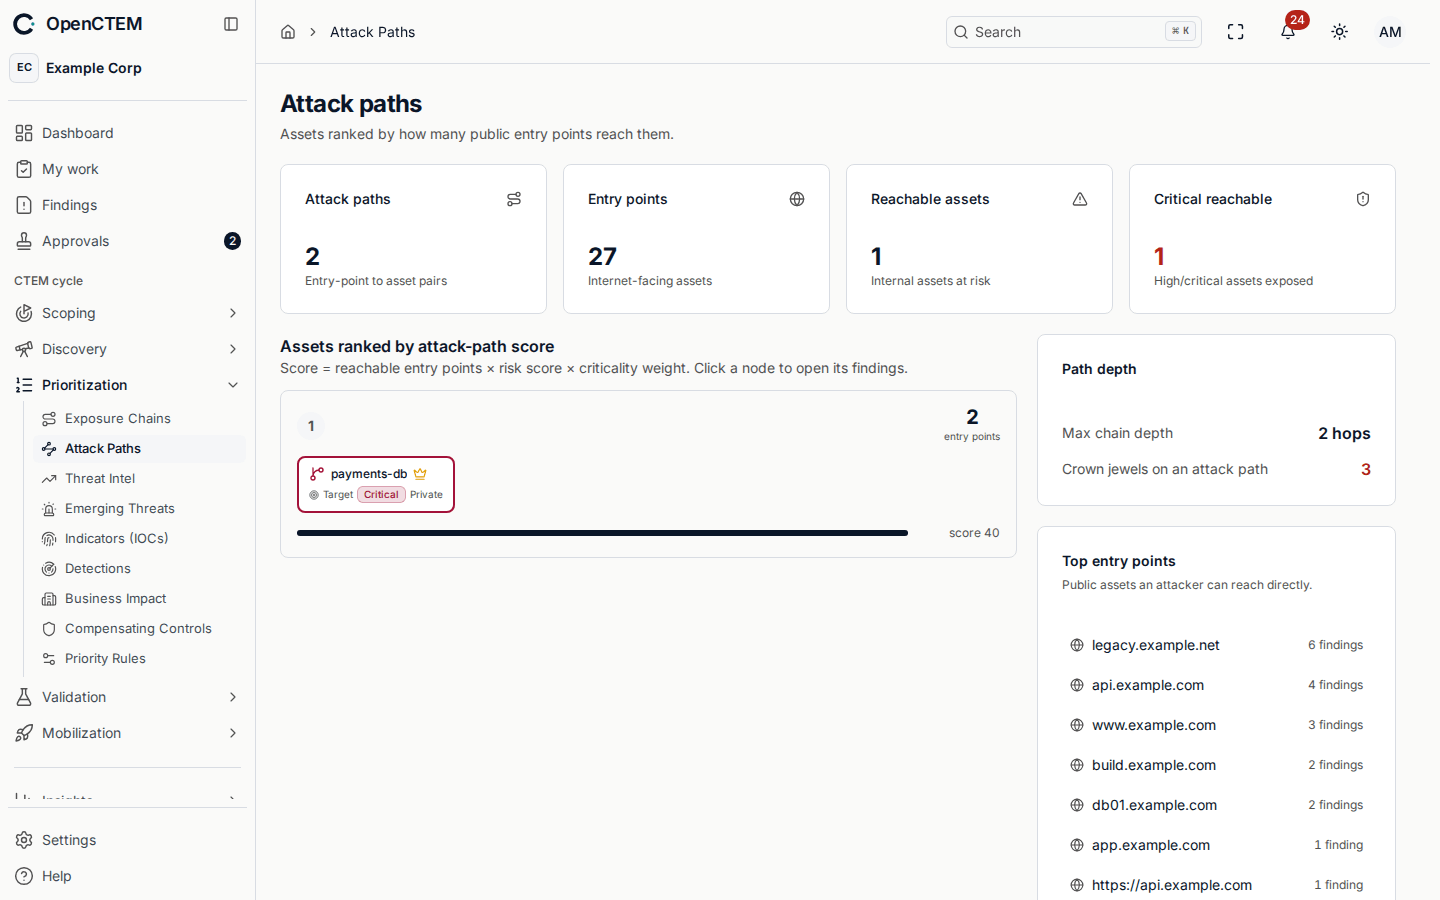
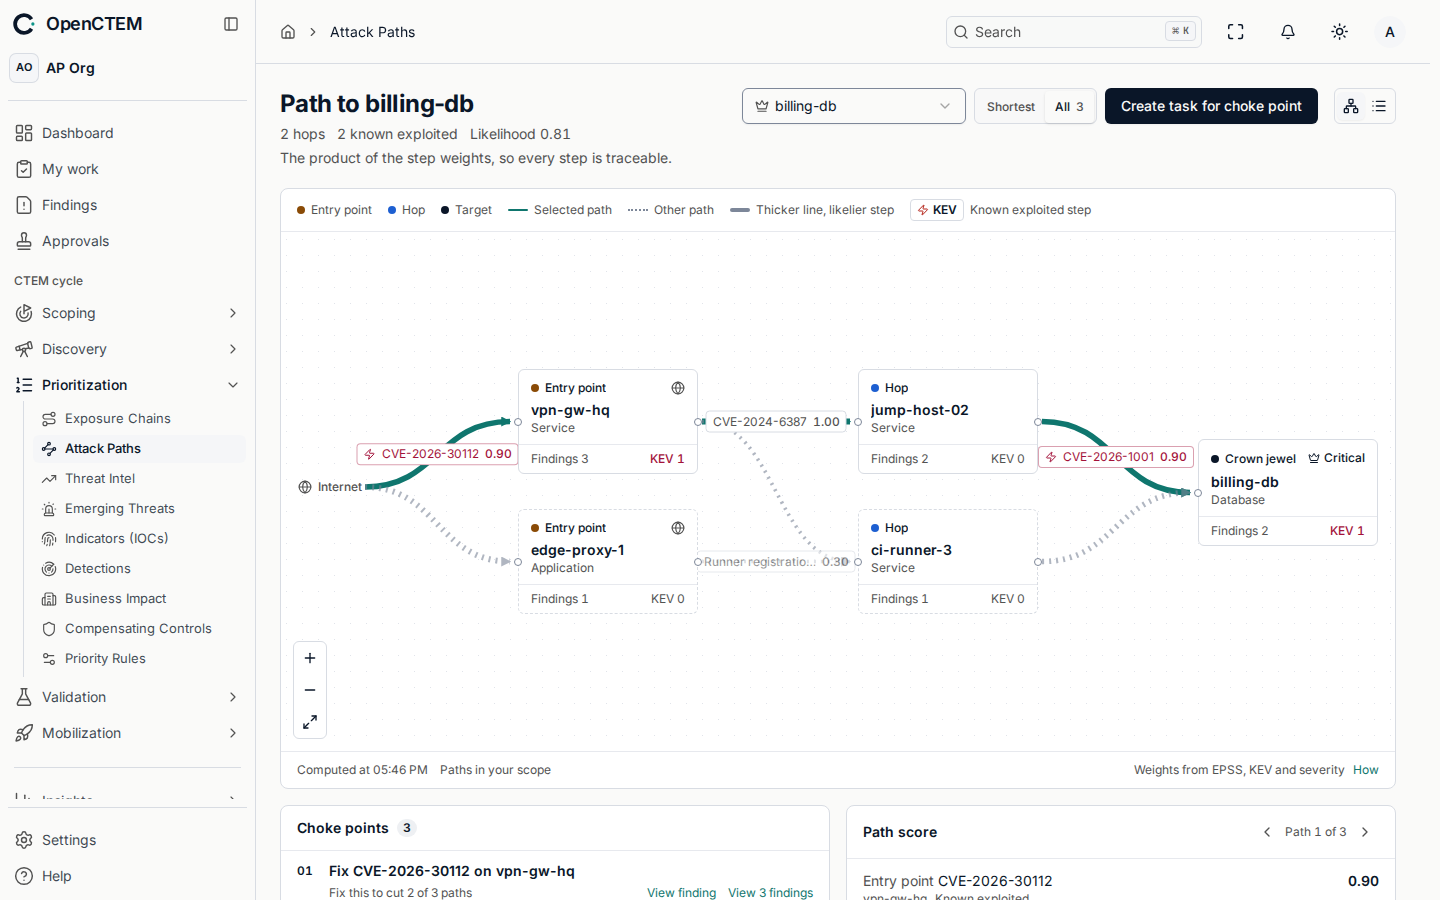
docs(user-guide): attack paths to one asset, choke points and path score (#161)

diff --git a/user-guide/06-prioritization.md b/user-guide/06-prioritization.md
@@ -101,7 +101,7 @@ they say so and link to the assets.
 ![The Exposure chains page ranking chains from internet-facing entry points to assets with KEV findings]({{ site.baseurl }}/assets/images/user-guide/exposure-chains.png)
 *Figure: Exposure chains.*
 
-![The Attack paths page ranking assets by how many public entry points reach them]({{ site.baseurl }}/assets/images/user-guide/attack-paths.png)
+![The Attack paths page drawing the routes from the internet through an entry point and hops to a crown jewel, with choke points and the path score]({{ site.baseurl }}/assets/images/user-guide/attack-paths.png)
 *Figure: Attack paths.*
 
 - **Exposure Chains** (`/exposure-chains`): attack paths from internet-facing
@@ -110,12 +110,30 @@ they say so and link to the assets.
   trace a path; click any node to open it. The cards show the entry points, the
   targets at risk and the chains shown. The page lists up to 100 chains; the
   figures on the cards count every chain you may see.
-- **Attack Paths** (`/attack-paths`): assets ranked by how many public entry
-  points reach them (the 50 highest-ranked among the assets you may see). The
-  ranking shows how widely each asset is exposed; it does not tell you which
-  single fix would break the most paths. The page also shows the crown jewels at
-  risk, the maximum chain depth and the top entry points. Only open findings
-  raise an asset's score.
+- **Attack Paths** (`/attack-paths`): how the internet reaches one asset.
+  Pick the target at the top (crown jewels first; a chain on Exposure Chains
+  opens its target here with **Open attack paths**). The graph runs left to
+  right from **Internet** through entry points and hops to the target. Each
+  edge names the finding that lets an attacker take that step and its weight;
+  thicker lines are likelier steps.
+  - **Shortest** shows the most likely shortest route; **All** shows every
+    short route (up to 12; the footer says when there are more).
+  - Hover or focus a step to light every route through it. With the keyboard,
+    Tab into the graph, use the arrow keys to follow the edges, `[` and `]` to
+    switch routes, Enter to open the findings of a step and Escape to clear.
+    **List view** shows the same routes as a list; it is the default on a
+    phone.
+  - **Choke points** ranks the steps whose findings, once fixed, cut the most
+    routes ("Fix this to cut 2 of 3 paths"). **View finding** opens the
+    finding behind the step and **View N findings** opens exactly the N open
+    findings on that asset. **Create task for choke point** puts the first
+    one's finding in a remediation task.
+  - **Path score** breaks the selected route into its step weights and their
+    product, the path likelihood. A step weighs the open finding most likely to
+    let an attacker onto that asset: its EPSS score, at least 0.9 when it is
+    known exploited, and at least 0.5, 0.3, 0.1 or 0.05 for a critical, high,
+    medium or low finding. A step with no open finding counts as 1: the
+    relationship alone is taken to allow it. **How** on the page repeats this.
 
 If the page cannot load the data it says so and offers **Retry**; that is
 different from "No relationship data yet", which means the read worked and the
@@ -124,10 +142,12 @@ organization has no relationships.
 ### What you see when you can access only some assets
 
 Paths follow the whole asset graph, but you only see assets in your scope. An
-exposure chain is shown when its target is an asset you may see. A step on the
-way that you may not see appears as **Outside your access**, with no name or
-type, so you can tell that your asset is reachable without learning what lies in
-between.
+exposure chain is shown when its target is an asset you may see, and Attack
+Paths opens only targets you may see. A step on the way that you may not see
+appears as **Outside your access**, with no name, type, findings or weight, so
+you can tell that your asset is reachable without learning what lies in
+between. A route through such a step shows its likelihood as **Withheld**, and
+the step is never a choke point.
 
 ## Threat intelligence
 
